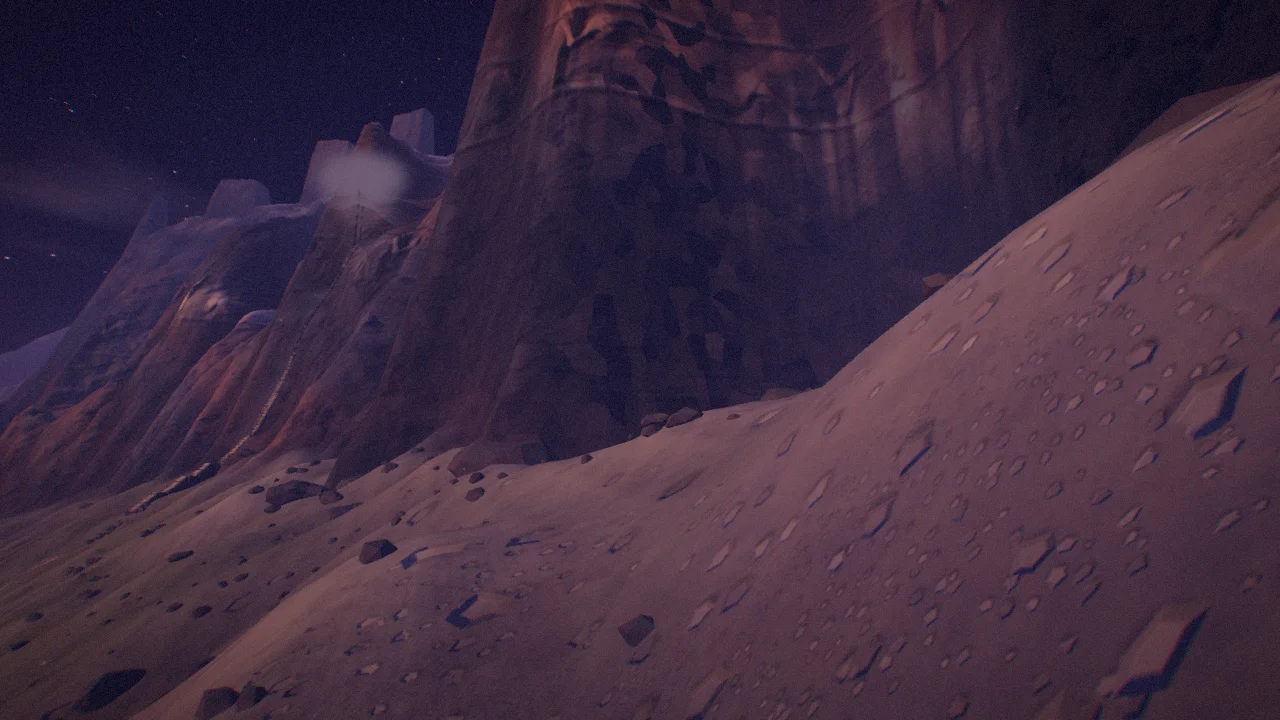
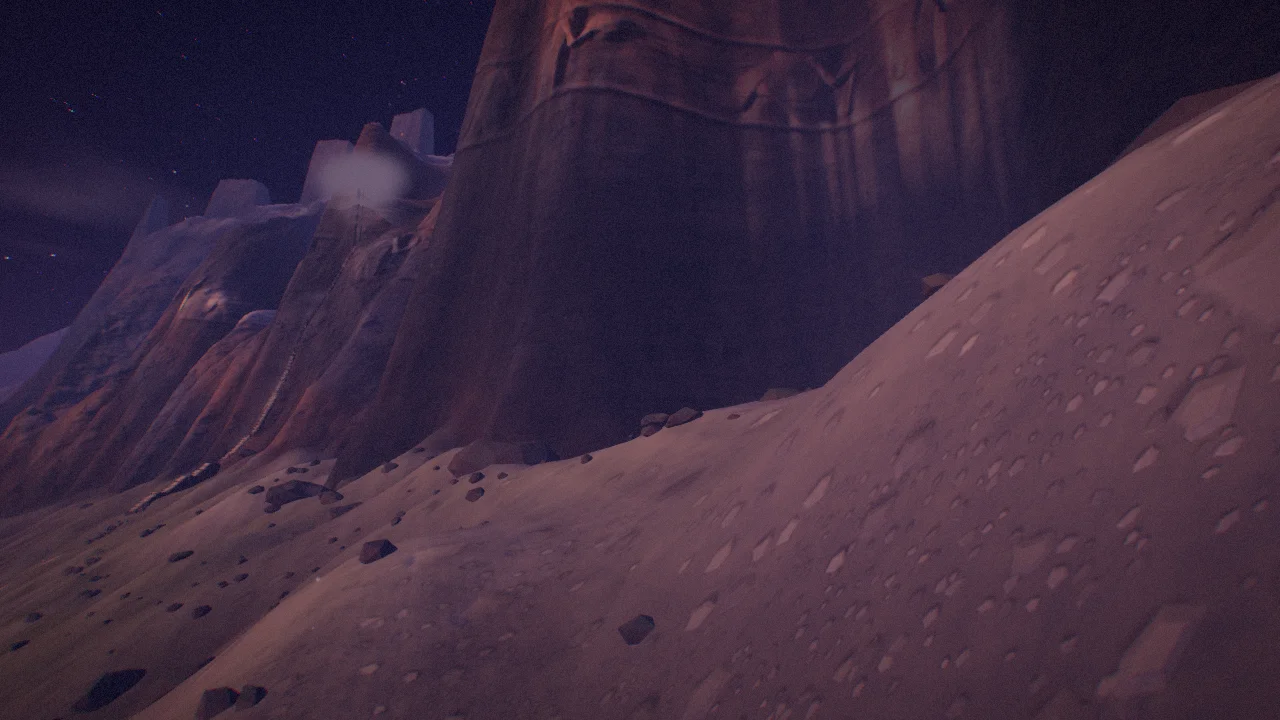
docs(v11.1): the wall fix merged; the notes and the keeper follow it

diff --git a/plans/wilderness-v11.md b/plans/wilderness-v11.md
@@ -52,7 +52,7 @@ In flight (v11.1):
 
 | Brief | Branch / worktree | Port | Model |
 |---|---|---|---|
-| W1 fix | `issue-1113-wall-patches` | 8161 | opus |
+| W1 and its fix | merged | | |
 | W2 | merged | | |
 | W5 (trial) | merged, behind `?cols=high` | | |
 | W3 | merged | | |
@@ -74,6 +74,8 @@ In flight (v11.1):
 **W1 is merged (two rounds), and a blind read sent it back a third time for a fix.** W1 (`6137b8e`): cracked blocks, scars and lichen on the wall inside 200 m (`CLOSE_ROCK_GLSL`, limited by a baked `aRock`), loose stone on the apron (round two; round one was a mosaic), ribs and couloirs lifted on the sunward southern faces; about 1.3 ms more GPU a frame at the wall's foot on low. The blind reader (17 fixed views from `next` as `v11.1-next-*`, plus the agents' close frames), on the close rock: "hard-edged, straight-sided dark polygons and wedge or fan shapes across the slope" (`v11.1-W1-s5-b150-10`), "camouflage patches", "one dark chevron shadow that does not match any object". That is W1's and blocks the release: **in flight, the fix**, `issue-1113-wall-patches`, port 8161, the same opus agent. The reader's other points are older than v11.1 and not taken on: from a distance the faces are "smooth melted wax with vertical drips"; its three least natural things were built ones (the Ridge's merlons, the Vigilant, the Annals' band); the Lamps at 60 m "float in dark space... lanterns, not rooms" (no wall shows behind them in the dark). The release entry, the README line and four keepers (stage 78) are written (`0aec764`); the Known issues will say what the fix leaves.
 
 **W5 is merged as a flag** (`967afad`, `?cols=high`; default proven unchanged by `terrain-probe --diff`, max dh 0, taken before its merge with `next`). Passes at 131, 141 and 149 m. Looked at in pairs (`v11.1-W5-{default,high}-cols-*`): from above, each slot becomes a broad dip with a far ridge behind; from the floor the two modes are nearly the same picture, because nearer ground already hid the cols' floors. The owner put making it the default with the Heights; the findings are on #4. With the flag on, ground inside the walk limit rises up to 9 m near each pass.
+
+**The wall fix is merged** (`2ddcd34`): the dark polygons were tilted normals, each 3 m block turning past the light (tilt 0.65, now about 6 degrees; close relief capped near 19 degrees), and M1's 35 m block bump terracing close up (now a gentle swell inside 150 m). Looked at: `v11.1-W1-fix-b150-10`, `-b90-graze`, `-b210-40`, `-b150-100`: no polygons, stones on the apron; the face up close is quieter again, closer to plain than round two's. The agent's six tests green. All of v11.1 is on `next`; the full suite is next.
 
 Next: check and merge each (W3, W4 as they come; W1, then W2 after it merges `next`), a blind read of the renders, `tools/suite.sh 8123` in full, then the release as `v11.1` (the day's third merge to `main` of six).
 

diff --git a/RELEASES.md b/RELEASES.md
@@ -12,7 +12,7 @@ A second pass over the mountains, for the things the last release left weak: the
 
 ### Fixed
 
-- **The rock was plain up close**: Walk to the foot of the mountains and the cliff was a smooth painted slope. It is now cracked into blocks, with pale scars where rock has fallen away, patches of lichen, and loose stone lying on the slope below.
+- **The rock was plain up close**: Walk to the foot of the mountains and the cliff was a smooth painted slope. It now has cracks and joints in the face, pale scars where rock has fallen away, patches of lichen, and loose stone lying on the slope below.
 - **The mountains toward the sun were smooth**: The southern mountains, beside the setting sun, washed out in its glare. Their ribs and gullies now show through the haze.
 - **The north-east wall was one flat face**: The wall under the Battlemented Ridge, the Gradine (the great stair) and the Vigilant (the giant seated on the crest) now has buttresses, a deep notch in its skyline, and a rib that the stair climbs.
 - **The Horn was a finger**: The tallest peak, in the south-east, is now a pyramid with a broad base and a long shoulder.
@@ -25,7 +25,7 @@ A second pass over the mountains, for the things the last release left weak: the
 - The three releases merged without a second reader last time were read cold; nothing serious was found.
 - The front page of the repository gets one picture for every major release, and the release tests now fail if one is missing.
 
-Known issues: from the middle of the valley the north-east wall still reads as a wall; its new shape shows best from the moor and the ice. You cannot walk close enough to the city of windows to see its rooms well. The yellow sparks that mark things to do are still hard to see where other lights are near.
+Known issues: up close the rock is better but still plainer than it should be, and from far off the cliffs can still look smooth. From the middle of the valley the north-east wall still reads as a wall; its new shape shows best from the moor and the ice. You cannot walk close enough to the city of windows to see its rooms well. The yellow sparks that mark things to do are still hard to see where other lights are near.
 
 <p><img src="shots/78-wall-close-before.webp" width="24%" alt="Before: the foot of the mountain wall, a smooth slope"> <img src="shots/78-wall-close-after.webp" width="24%" alt="After: the same view, cracked rock on the face and loose stone below"> <img src="shots/78-ne-wall-from-the-moor.webp" width="24%" alt="The north-east wall from the moor, with buttresses and a deep notch in its skyline"> <img src="shots/78-lamps-near.webp" width="24%" alt="The city of windows from below: framed windows and lanterns climbing a ravine"></p>
 

diff --git a/shots/README.md b/shots/README.md
@@ -643,7 +643,7 @@ Agents write raw work-in-progress renders into `wip/` (the inbox). At each merge
 | `77-mountains-spawn-y1-before.webp` | Before: the same view with the ruled wall and the Galleries hung on it. |
 | `78-lamps-near.webp` | The Escarpment Lamps from 100 m below: framed windows, arches and shutters, lanterns along the ledge. |
 | `78-ne-wall-from-the-moor.webp` | The north-east wall from the moor: buttresses, a deep notch, the Vigilant on its shoulder. |
-| `78-wall-close-after.webp` | After: the foot of the wall at a grazing angle; cracked blocks on the face, loose stone on the apron. |
+| `78-wall-close-after.webp` | After: the foot of the wall at a grazing angle; jointed rock on the face, loose stone on the apron. |
 | `78-wall-close-before.webp` | Before: the same view, the face and the apron smooth. |
 | `plan-v2-placement-map.webp` | Placement map for the v2 plan. |
 | `plan-v4-placement-map.webp` | Placement map for the v4 to v7 plan: every site in `tools/sites-v4.json`, redrawn by `tools/map.mjs`. |
